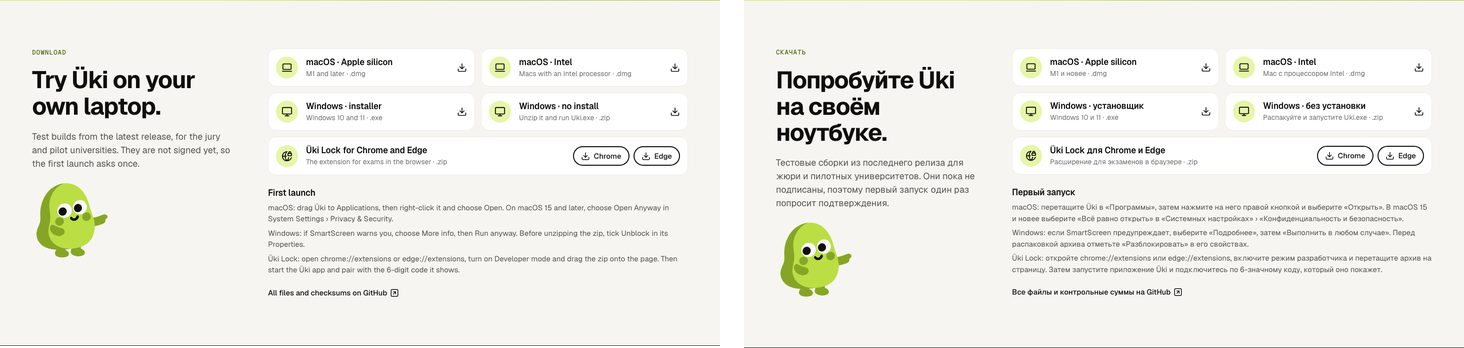
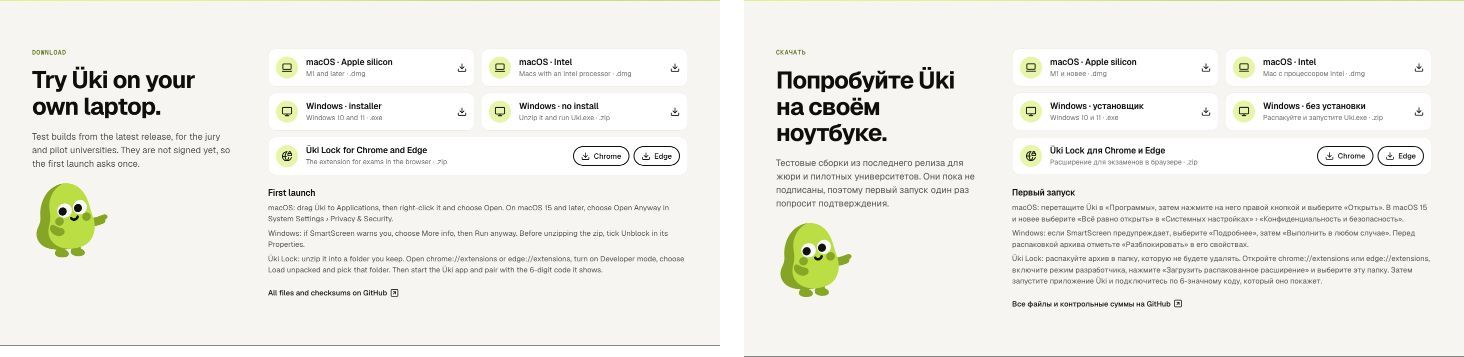
fix(web): the landing's Üki Lock note says Load unpacked, as the release notes do

diff --git a/docs/decisions.md b/docs/decisions.md
@@ -1131,7 +1131,7 @@ A user request, not a frame: on 8 October the user decided where the landing's m
 
 - **Sign in** opens `/sign-in`, as before; it now has its own e2e test at 1440 and 390.
 - **Book a pilot** keeps opening the form at `/pilot`. The user does not want a personal contact link, so there is no contact variable (an earlier, uncommitted draft read `NEXT_PUBLIC_PILOT_CONTACT_URL`; it was dropped).
-- **Download goes to the latest published GitHub release.** A download block (`/#download`) sits between the CTA band and the footer: macOS Apple silicon, macOS Intel, the Windows installer, the Windows zip that runs without an install, and Üki Lock with one button each for Chrome and Edge. Each links `https://github.com/k4ssymzhomart/uki/releases/latest/download/<file>` with the stable names of WP 0.15's release workflow (`scripts/lib/release.ts` on `wp/0.15-release`): `Uki-mac-arm64.dmg`, `Uki-mac-x64.dmg`, `Uki-Setup-win-x64.exe`, `Uki-win-x64.zip`, `Uki-Lock-chrome.zip`, `Uki-Lock-edge.zip`. Under the cards: the first-launch notes for the unsigned builds, shortened from the release notes, and a link to the release page for the checksums. The footer's Üki app and Üki Lock links lead to the block (they went to How it works and the Lock feature row); the header stays as the frames draw it. Until the first release is published, the file links answer 404.
+- **Download goes to the latest published GitHub release.** A download block (`/#download`) sits between the CTA band and the footer: macOS Apple silicon, macOS Intel, the Windows installer, the Windows zip that runs without an install, and Üki Lock with one button each for Chrome and Edge. Each links `https://github.com/k4ssymzhomart/uki/releases/latest/download/<file>` with the stable names of WP 0.15's release workflow (`scripts/lib/release.ts` on `wp/0.15-release`): `Uki-mac-arm64.dmg`, `Uki-mac-x64.dmg`, `Uki-Setup-win-x64.exe`, `Uki-win-x64.zip`, `Uki-Lock-chrome.zip`, `Uki-Lock-edge.zip`. Under the cards: the first-launch notes for the unsigned builds, shortened from the release notes, and a link to the release page for the checksums. The Üki Lock note follows the release notes (unzip into a folder you keep, Developer mode, Load unpacked); the first draft said to drag the zip onto the extensions page, which Chrome and Edge do not install, and was corrected on 9 October. The footer's Üki app and Üki Lock links lead to the block (they went to How it works and the Lock feature row); the header stays as the frames draw it. Until the first release is published, the file links answer 404.
 - **The jury guide** is a small floating button in the bottom corner of `/` only (16 px in at 390, 24 px at 1440): the waving mascot and "Jury guide" on a surface pill with Shadow/Float. It opens the kit's Drawer (1.5b's side panel: scrim, focus kept inside, Escape, the scrim and the close icon close it, focus goes back to the button), full width at 390. Inside, Üki says hello in a lime speech bubble and walks through five numbered steps, each a pose beside a bubble (bg/subtle at Radius/card, with the corner nearest the mascot at Radius/sm; no drawn tail): what Üki is (shield), sign in to the live dashboard (pointing; Sign in opens `/sign-in`), download and open the student app (laptop; to the download block), install Üki Lock for browser exams (lock; to the download block), and what to look at (magnifier: the live wall, Ask proctor, a flagged moment, the integrity report, 0 MB of video). The demo login is given by the team in person and never appears on the page.
 - **Motion is fades only.** The button and the panel fade in through `@starting-style`; nothing slides or scales, so reduced motion needs no other variant. The Drawer closes without a fade (Radix unmounts it at once).
 - **Copy:** `dashboard.landing.download.*` and `dashboard.landing.guide.*` in `dashboard-landing.json`, English and Russian, drafted by the agent for the landing read-through on Monday 12.
